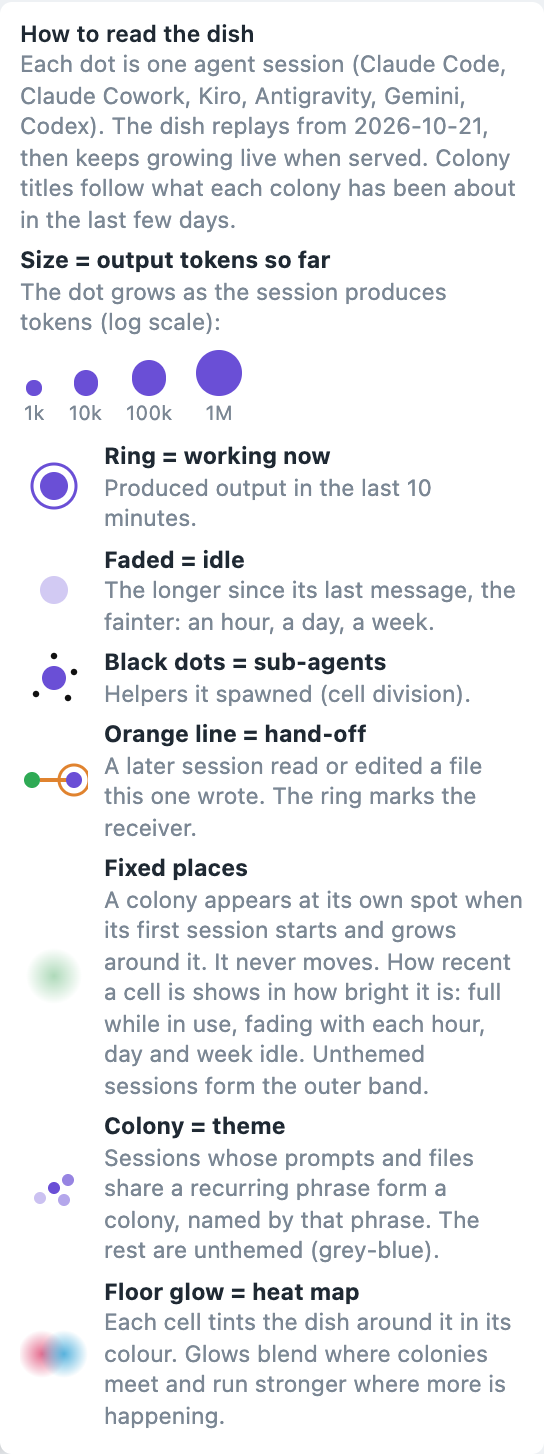
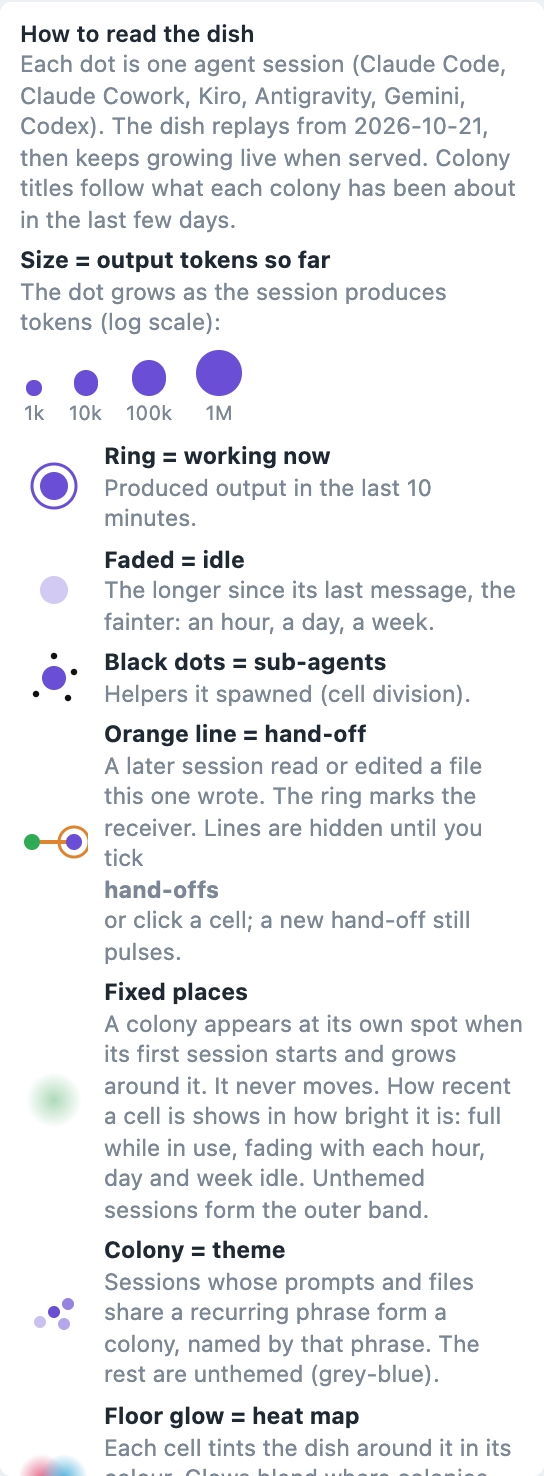
Hide hand-off lines by default: a hand-offs checkbox, a cell's own lines on click, new hand-offs still pulse; refresh the README media

diff --git a/src/agent_dish/web/template.html b/src/agent_dish/web/template.html
@@ -47,7 +47,7 @@
     <div class="lr"><svg width="34" height="30" viewBox="0 0 34 30"><circle cx="17" cy="15" r="7" fill="#6a4fd6"/><circle cx="17" cy="15" r="11" fill="none" stroke="#6a4fd6" stroke-width="1.5"/></svg><div><b>Ring = working now</b><span class="sub">Produced output in the last 10 minutes.</span></div></div>
     <div class="lr"><svg width="34" height="30" viewBox="0 0 34 30"><circle cx="17" cy="15" r="7" fill="#6a4fd6" opacity=".3"/></svg><div><b>Faded = idle</b><span class="sub">The longer since its last message, the fainter: an hour, a day, a week.</span></div></div>
     <div class="lr"><svg width="34" height="30" viewBox="0 0 34 30"><circle cx="17" cy="15" r="6" fill="#6a4fd6"/><g fill="#111"><circle cx="17" cy="4" r="1.6"/><circle cx="27" cy="12" r="1.6"/><circle cx="24" cy="25" r="1.6"/><circle cx="8" cy="23" r="1.6"/></g></svg><div><b>Black dots = sub-agents</b><span class="sub">Helpers it spawned (cell division).</span></div></div>
-    <div class="lr"><svg width="34" height="30" viewBox="0 0 34 30"><circle cx="6" cy="15" r="4" fill="#2faa55"/><line x1="10" y1="15" x2="24" y2="15" stroke="#e0832f" stroke-width="2"/><circle cx="27" cy="15" r="4" fill="#6a4fd6"/><circle cx="27" cy="15" r="7.5" fill="none" stroke="#e0832f" stroke-width="1.5"/></svg><div><b>Orange line = hand-off</b><span class="sub">A later session read or edited a file this one wrote. The ring marks the receiver.</span></div></div>
+    <div class="lr"><svg width="34" height="30" viewBox="0 0 34 30"><circle cx="6" cy="15" r="4" fill="#2faa55"/><line x1="10" y1="15" x2="24" y2="15" stroke="#e0832f" stroke-width="2"/><circle cx="27" cy="15" r="4" fill="#6a4fd6"/><circle cx="27" cy="15" r="7.5" fill="none" stroke="#e0832f" stroke-width="1.5"/></svg><div><b>Orange line = hand-off</b><span class="sub">A later session read or edited a file this one wrote. The ring marks the receiver. Lines are hidden until you tick <b>hand-offs</b> or click a cell; a new hand-off still pulses.</span></div></div>
     <div class="lr"><svg width="34" height="30" viewBox="0 0 34 30"><defs><radialGradient id="lg"><stop offset="0" stop-color="#9ad0a8" stop-opacity=".8"/><stop offset="1" stop-color="#9ad0a8" stop-opacity="0"/></radialGradient></defs><circle cx="17" cy="15" r="14" fill="url(#lg)"/></svg><div><b>Fixed places</b><span class="sub">A colony appears at its own spot when its first session starts and grows around it. It never moves. How recent a cell is shows in how bright it is: full while in use, fading with each hour, day and week idle. Unthemed sessions form the outer band.</span></div></div>
     <div class="lr"><svg width="34" height="30" viewBox="0 0 34 30"><circle cx="17" cy="15" r="3" fill="#6a4fd6"/><circle cx="24" cy="11" r="3" fill="#6a4fd6" opacity=".7"/><circle cx="22" cy="21" r="3" fill="#6a4fd6" opacity=".5"/><circle cx="10" cy="20" r="3" fill="#6a4fd6" opacity=".35"/></svg><div><b>Colony = theme</b><span class="sub">Sessions whose prompts and files share a recurring phrase form a colony, named by that phrase. The rest are unthemed (grey-blue).</span></div></div>
     <div class="lr"><svg width="34" height="30" viewBox="0 0 34 30"><defs><radialGradient id="h1"><stop offset="0" stop-color="#e0527a" stop-opacity=".85"/><stop offset="1" stop-color="#e0527a" stop-opacity="0"/></radialGradient><radialGradient id="h2"><stop offset="0" stop-color="#3aa6d8" stop-opacity=".85"/><stop offset="1" stop-color="#3aa6d8" stop-opacity="0"/></radialGradient></defs><circle cx="11" cy="15" r="12" fill="url(#h1)"/><circle cx="22" cy="15" r="12" fill="url(#h2)"/></svg><div><b>Floor glow = heat map</b><span class="sub">Each cell tints the dish around it in its colour. Glows blend where colonies meet and run stronger where more is happening.</span></div></div>
@@ -56,7 +56,7 @@
   <div id="ctl"><button id="play">Pause</button><input type="range" id="scrub" min="0" max="1000" value="0">
     <button id="shufBtn" title="new random colours">Shuffle colours</button><button id="nowBtn" title="jump to the newest activity and follow it">Now</button>
     <select id="speed"><option value="0.5">slow</option><option value="1" selected>normal</option><option value="3">fast</option></select>
-    <label class="mute" title="sessions with no recurring phrase"><input type="checkbox" id="unth"> unthemed</label><span id="clock" class="mute" style="min-width:150px"></span><span id="tot" class="mute" style="min-width:170px"></span></div>
+    <label class="mute" title="sessions with no recurring phrase"><input type="checkbox" id="unth"> unthemed</label><label class="mute" title="draw a line from each session to the ones that built on it"><input type="checkbox" id="hand"> hand-offs</label><span id="clock" class="mute" style="min-width:150px"></span><span id="tot" class="mute" style="min-width:170px"></span></div>
 </div>
 <script>
 let DATA = /*DATA*/null;
@@ -72,6 +72,7 @@ const $ = id => document.getElementById(id);
 const tip = $('tip');
 let sel = null, frame = 0, drag = null, alpha = 1;
 const QUERY = new URLSearchParams(location.search);   // ?seed=40 fixes the colours
+let showHandoffs = (() => { try { return localStorage.getItem('agent-dish-handoffs') === '1'; } catch { return false; } })();   // off by default: the lines tangle on a busy dish
 let showUnthemed = (() => { try { return localStorage.getItem('agent-dish-unthemed') === '1'; } catch { return false; } })();
 const nameAt = (key, t) => { const a = (DATA.colonyNames || {})[key]; if (!a) return key; let name = key; for (const [d, nm] of a) { if (d <= t) name = nm; else break; } return name; };
 
@@ -213,9 +214,10 @@ function drawDish() {
   dx.beginPath(); dx.arc(0, 0, R-4, 0, 7); dx.clip();
   heatMap(R);
   const span = 1800; // seconds a pulse lasts in sim time
-  for (const {s,t,e} of de) if (e.t <= now) { const age = now-e.t, hot = age < span*8;
-    dx.beginPath(); dx.moveTo(s.x,s.y); dx.lineTo(t.x,t.y); dx.strokeStyle = '#e0832f'; dx.globalAlpha = hot ? 0.9 : 0.25; dx.lineWidth = hot ? 2 : 1; dx.stroke();
-    if (hot) { dx.globalAlpha = 1-age/(span*8); dx.beginPath(); dx.arc(t.x, t.y, radiusAt(t.d)+4+age/span*3, 0, 7); dx.stroke(); } }
+  for (const {s,t,e} of de) if (e.t <= now) { const age = now-e.t, hot = age < span*8, mine = sel && (s.d.id === sel || t.d.id === sel);
+    dx.strokeStyle = '#e0832f';
+    if (showHandoffs || mine) { dx.beginPath(); dx.moveTo(s.x,s.y); dx.lineTo(t.x,t.y); dx.globalAlpha = hot || mine ? 0.9 : 0.25; dx.lineWidth = hot || mine ? 2 : 1; dx.stroke(); }
+    if (hot) { dx.globalAlpha = 1-age/(span*8); dx.lineWidth = hot ? 2 : 1; dx.beginPath(); dx.arc(t.x, t.y, radiusAt(t.d)+4+age/span*3, 0, 7); dx.stroke(); } }   // a fresh hand-off still pulses when the lines are hidden
   dx.globalAlpha = 1;
   for (const p of dn) { const n = p.d; if (n.start > now) continue;
     const r = radiusAt(n), alive = now <= n.end + 3600, c = dishColor(n);
@@ -324,6 +326,8 @@ $('legToggle').onclick = () => showLegend($('legend').style.display === 'none');
 showLegend((() => { try { return localStorage.getItem('agent-dish-legend') !== '0'; } catch { return true; } })());
 
 // ================= wiring =================
+$('hand').checked = showHandoffs;
+$('hand').onchange = ev => { showHandoffs = ev.target.checked; try { localStorage.setItem('agent-dish-handoffs', showHandoffs ? '1' : '0'); } catch {} };
 $('unth').checked = showUnthemed;
 $('unth').onchange = ev => { showUnthemed = ev.target.checked; try { localStorage.setItem('agent-dish-unthemed', showUnthemed ? '1' : '0'); } catch {} rebuildDish(); };
 function layout() { [DW,DH] = fitTo(dc); }

diff --git a/docs/how-to-read.md b/docs/how-to-read.md
@@ -17,7 +17,7 @@ Pick the start date with the **from** box in the header (a snapshot can only sta
 | Ring around a cell      | It produced output in the last 10 minutes of dish time.                                                                                                                                           |
 | Faded cell              | Idle: the longer since its last message, the fainter (about 70% after an hour, 40% after a day, 25% after a week).                                                                                |
 | Black dots              | Sub-agents it has spawned so far (divisions).                                                                                                                                                     |
-| Orange line             | A hand-off: a later session read or edited a file this one wrote. The expanding ring marks the session that built on it.                                                                          |
+| Orange line             | A hand-off: a later session read or edited a file this one wrote. The expanding ring marks the session that built on it. Hidden by default; tick **hand-offs**, or click a cell to see its own.   |
 | Grey cells (when shown) | Sessions with no recurring phrase. Hidden by default; tick **unthemed** to show them as an outer band.                                                                                            |
 
 ## Controls

diff --git a/CHANGELOG.md b/CHANGELOG.md
@@ -2,6 +2,9 @@
 
 ## Unreleased
 
+- Hand-off lines are hidden by default, because they tangle on a busy dish. Tick **hand-offs** to show them all, or click a
+  cell to see its own. A new hand-off still pulses with a ring.
+
 - Colonies keep their place, like a real culture. A colony appears at its own spot (chosen from its name, so the same
   every time) when its first session starts, and grows around that spot. Before, colonies and cells moved as others
   became active. Recency now shows as brightness: cells fade the longer they sit idle (an hour, a day, a week), instead of one dormant step.
